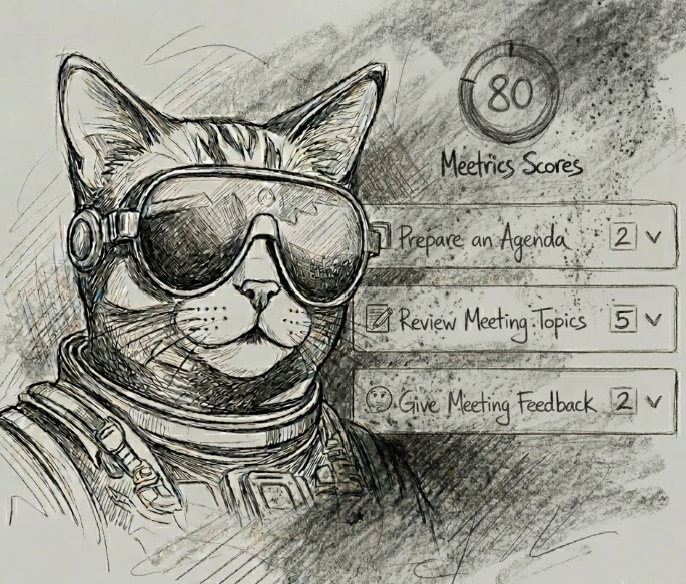
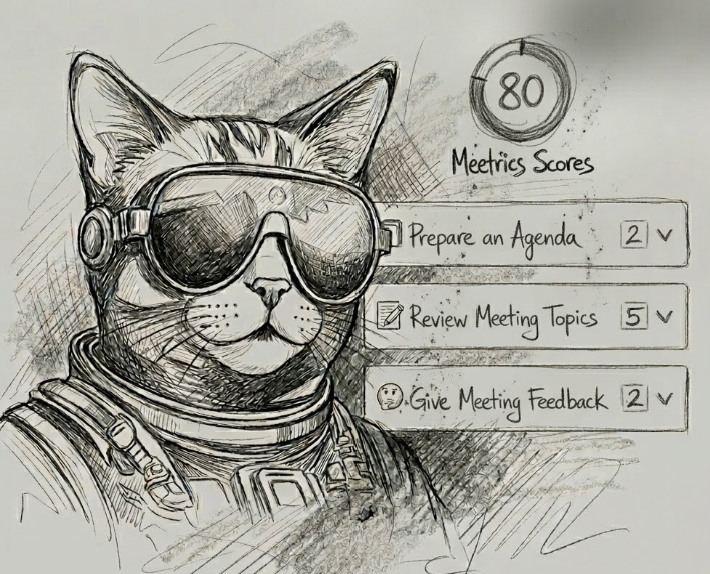
Update Meetrics AI background image and OXIO subtext description

diff --git a/resume/index.html b/resume/index.html
@@ -84,7 +84,7 @@
                         </div>
                         <div class="tile-text">
                             <p class="tile-title">OXIO</p>
-                            <p class="tile-desc">Technical Ops Team Lead, Support & Business</p>
+                            <p class="tile-desc">Technical Operations Team Lead</p>
                         </div>
                     </a>
 